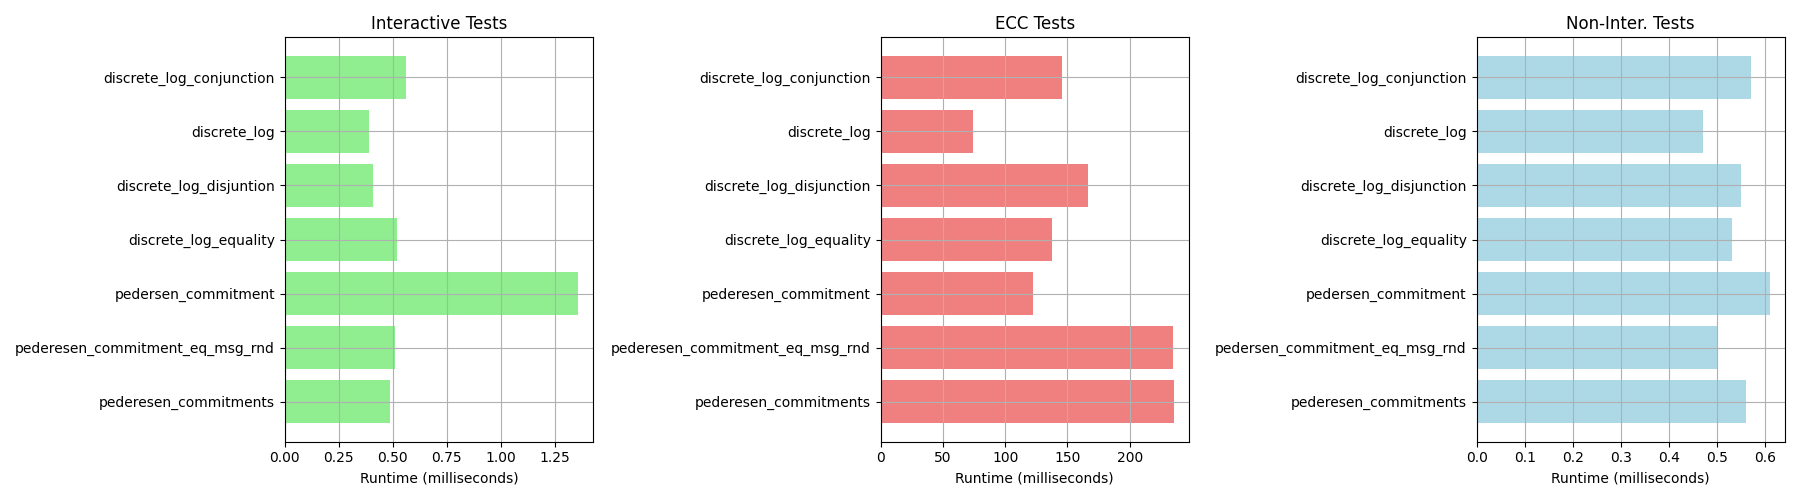
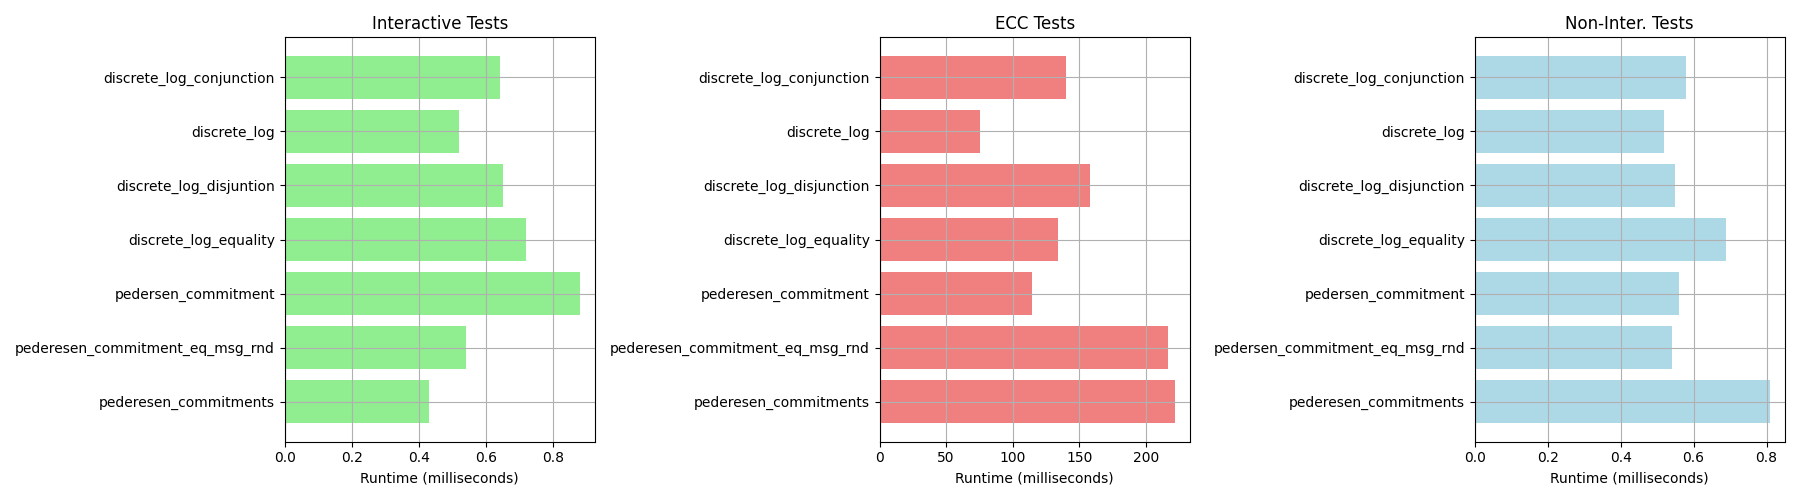
Adding in non-interactive classes the common point to choose hash function.

diff --git a/python/zkps/zkp_pederesen_commitments_messages.py b/python/zkps/zkp_pederesen_commitments_messages.py
@@ -2,6 +2,7 @@ from .elliptic_curve import get_curve
 from .interface_zkp import ZeroKnowledgeProtocol, ZeroKnowledgeProtocolNonInteractive
 import random
 import hashlib
+from .zkp_base import Base
 
 class PedersenCommitmentsEqualMessagesInteractive(ZeroKnowledgeProtocol):
     def __init__(self, p, g, h, x=None, y=None, z=None):
@@ -43,7 +44,7 @@ class PedersenCommitmentsEqualMessagesInteractive(ZeroKnowledgeProtocol):
 
         assert lhs1 == rhs1 and lhs2 == rhs2
 
-class PederesenCommitmentsEqualMessages(ZeroKnowledgeProtocolNonInteractive):
+class PederesenCommitmentsEqualMessages(ZeroKnowledgeProtocolNonInteractive, Base):
 
     def __init__(self, p, g, h, x = None, y = None, z = None):
         self._p = p
@@ -54,11 +55,6 @@ class PederesenCommitmentsEqualMessages(ZeroKnowledgeProtocolNonInteractive):
             self._y = y
             self._z = z
 
-    def hash_points(self, points):
-        hash_input = ''.join(str(point) for point in points).encode()
-        hash_output = hashlib.sha256(hash_input).hexdigest()
-        return int(hash_output, 16) % self._p
-
     def response(self, P, Q):
         r1 = random.randint(1, self._p - 1)
         r2 = random.randint(1, self._p - 1)
@@ -67,7 +63,7 @@ class PederesenCommitmentsEqualMessages(ZeroKnowledgeProtocolNonInteractive):
         t1 = (pow(self._g, r1, self._p) * pow(self._h, r2, self._p)) % ( self._p )
         t2 = (pow(self._g, r1, self._p) * pow(self._h, r3, self._p)) % ( self._p )
         
-        c = self.hash_points([P, Q, t1, t2])
+        c = self._hash([P, Q, t1, t2]) % self._p
         
         s1 = (r1 + c * self._x) % (self._p - 1 )
         s2 = (r2 + c * self._y) % (self._p - 1 )
@@ -79,7 +75,7 @@ class PederesenCommitmentsEqualMessages(ZeroKnowledgeProtocolNonInteractive):
         (t1, s1) = t1s1
         (t2, s2) = t2s2
         
-        c = self.hash_points([P, Q, t1, t2])
+        c = self._hash([P, Q, t1, t2]) % self._p
         
         lhs1 = (pow(self._g, s1, self._p) * pow(self._h, s2, self._p)) % self._p
         lhs2 = (pow(self._g, s1, self._p) * pow(self._h, s3, self._p)) % self._p

diff --git a/python/zkps/zkp_pederesen_commitments.py b/python/zkps/zkp_pederesen_commitments.py
@@ -2,7 +2,7 @@ import random
 import hashlib
 from .elliptic_curve import get_curve
 from .interface_zkp import ZeroKnowledgeProtocol, ZeroKnowledgeProtocolNonInteractive
-
+from .zkp_base import Base
 
 class PedersenCommitmentsEqualInteractive(ZeroKnowledgeProtocol):
     def __init__(self, p, x=None, y=None):
@@ -43,18 +43,12 @@ class PedersenCommitmentsEqualInteractive(ZeroKnowledgeProtocol):
         assert lhs1 == rhs1 
         assert lhs2 == rhs2
 
-class PedersenCommitmentsEqual(ZeroKnowledgeProtocolNonInteractive):
+class PedersenCommitmentsEqual(ZeroKnowledgeProtocolNonInteractive, Base):
 
     def __init__(self, p, x=None, y=None):
         self._x = x
         self._y = y
         self.p = p  # Large prime number for modulo operations
-    
-    def _hash_mod_p(self, values):
-        """Hashes a list of values and reduces the result modulo p."""
-        hash_input = ''.join([str(v) for v in values]).encode('utf-8')
-        hash_output = int(hashlib.sha256(hash_input).hexdigest(), 16)
-        return hash_output % self.p
     
     def _mod_exp(self, base, exponent):
         """Performs modular exponentiation."""
@@ -68,7 +62,7 @@ class PedersenCommitmentsEqual(ZeroKnowledgeProtocolNonInteractive):
         t1 = (self._mod_exp(g1, r1) * self._mod_exp(h1, r2)) % self.p 
         t2 = (self._mod_exp(g2, r1) * self._mod_exp(h2, r2)) % self.p
         
-        c = self._hash_mod_p([g1, h1, g2, h2, P, Q, t1, t2])
+        c = self._hash([g1, h1, g2, h2, P, Q, t1, t2]) % self.p
         
         s1 = (r1 + c * self._x) % ( self.p - 1)
         s2 = (r2 + c * self._y) % ( self.p - 1)
@@ -82,7 +76,7 @@ class PedersenCommitmentsEqual(ZeroKnowledgeProtocolNonInteractive):
         lhs1 = (self._mod_exp(g1, s1) * self._mod_exp(h1, s2)) % self.p
         lhs2 = (self._mod_exp(g2, s1) * self._mod_exp(h2, s2)) % self.p
         
-        c = self._hash_mod_p([g1, h1, g2, h2, P, Q, t1, t2])
+        c = self._hash([g1, h1, g2, h2, P, Q, t1, t2]) % self.p
         
         rhs1 = (t1 * self._mod_exp(P, c)) % self.p
         rhs2 = (t2 * self._mod_exp(Q, c)) % self.p

diff --git a/python/zkps/zkp_log_disjunction.py b/python/zkps/zkp_log_disjunction.py
@@ -2,7 +2,7 @@ import random
 import hashlib
 from .elliptic_curve import get_curve
 from .interface_zkp import ZeroKnowledgeProtocol, ZeroKnowledgeProtocolNonInteractive
-
+from .zkp_base import Base
 
 class DiscreteLogDisjunctionInteractive(ZeroKnowledgeProtocol):
     def __init__(self, g, h, P, Q, p, x=None):
@@ -89,7 +89,7 @@ class DiscreteLogDisjunctionInteractive(ZeroKnowledgeProtocol):
         assert lhs2 == rhs2 and lhs1 == rhs1
 
 
-class DiscreteLogDisjunction(ZeroKnowledgeProtocolNonInteractive):
+class DiscreteLogDisjunction(ZeroKnowledgeProtocolNonInteractive, Base):
 
     def __init__(self, g, h, P, Q, p, x=None):
         """
@@ -114,12 +114,8 @@ class DiscreteLogDisjunction(ZeroKnowledgeProtocolNonInteractive):
         t1 = pow(self._g, r1, self._p)
         t2 = (pow(self._h, s2, self._p) *
               pow(self._Q, (0 - c2), self._p)) % self._p
-
-        cha1 = str(self._g) + str(self._h) + str(self._P) + \
-            str(self._Q) + str(t1) + str(t2)
-        hash_ = hashlib.md5()
-        hash_.update(cha1.encode())
-        c = int(hash_.hexdigest(), 16) % self._p
+        
+        c = self._hash([self._g, self._h, self._P, self._Q, t1, t2]) % self._p
 
         c1 = (c - c2) % self._p
 
@@ -130,11 +126,8 @@ class DiscreteLogDisjunction(ZeroKnowledgeProtocolNonInteractive):
     def verify(self, g, h, P, Q, t1c1s1, t2c2s2):
         (t1, c1, s1) = t1c1s1
         (t2, c2, s2) = t2c2s2
-
-        cha1 = str(g) + str(h) + str(P) + str(Q) + str(t1) + str(t2)
-        hash_ = hashlib.md5()
-        hash_.update(cha1.encode())
-        c = int(hash_.hexdigest(), 16) % self._p
+        
+        c = self._hash([g, h, P, Q, t1, t2]) % self._p
 
         assert (c == (c1 + c2) % self._p)
 

diff --git a/python/zkps/zkp_log_conjunction.py b/python/zkps/zkp_log_conjunction.py
@@ -2,7 +2,7 @@ import random
 import hashlib
 from .elliptic_curve import get_curve
 from .interface_zkp import ZeroKnowledgeProtocol, ZeroKnowledgeProtocolNonInteractive
-
+from .zkp_base import Base
 
 class DiscreteLogConjunctionInteractive(ZeroKnowledgeProtocol):
 
@@ -71,7 +71,7 @@ class DiscreteLogConjunctionInteractive(ZeroKnowledgeProtocol):
         assert lhs1 == rhs1 and lhs2 == rhs2
 
 
-class DiscreteLogConjunction(ZeroKnowledgeProtocolNonInteractive):
+class DiscreteLogConjunction(ZeroKnowledgeProtocolNonInteractive, Base):
 
     def __init__(self, g, h, P, Q, p, x=None, y=None):
         """
@@ -96,12 +96,8 @@ class DiscreteLogConjunction(ZeroKnowledgeProtocolNonInteractive):
         t1 = pow(self._g, r1, self._p)
         t2 = pow(self._h, r2, self._p)
 
-        cha1 = str(self._g) + str(self._h) + str(self._P) + \
-            str(self._Q) + str(t1) + str(t2)
-        hash_ = hashlib.md5()
-        hash_.update(cha1.encode())
-        c = int(hash_.hexdigest(), 16) % self._p
-
+        c = self._hash([self._g, self._h, self._P, self._Q, t1, t2]) % self._p
+        
         s1 = (r1 + c * self._x) % (self._p - 1)
         s2 = (r2 + c * self._y) % (self._p - 1)
 
@@ -112,11 +108,8 @@ class DiscreteLogConjunction(ZeroKnowledgeProtocolNonInteractive):
         (t1, s1) = t1cs1
         (t2, s2) = t2cs2
 
-        cha1 = str(g) + str(h) + str(P) + str(Q) + str(t1) + str(t2)
-        hash_ = hashlib.md5()
-        hash_.update(cha1.encode())
-        c = int(hash_.hexdigest(), 16) % self._p
-
+        c = self._hash([g, h, P, Q, t1, t2]) % self._p
+        
         lhs1 = pow(g, s1, self._p)
         rhs1 = (t1 * pow(P, c, self._p)) % self._p
 

diff --git a/python/zkps/zkp_pederesen_commitment.py b/python/zkps/zkp_pederesen_commitment.py
@@ -3,6 +3,7 @@ from .interface_zkp import ZeroKnowledgeProtocol, ZeroKnowledgeProtocolNonIntera
 
 import random
 import hashlib
+from .zkp_base import Base
 
 
 class PedersenCommitmentInteractive(ZeroKnowledgeProtocol):
@@ -73,7 +74,7 @@ class PedersenCommitmentInteractive(ZeroKnowledgeProtocol):
         return lhs == rhs
 
 
-class PedersenCommitment(ZeroKnowledgeProtocolNonInteractive):
+class PedersenCommitment(ZeroKnowledgeProtocolNonInteractive, Base):
     """
     Non-interactive Pedersen Commitment in a cyclic group of prime order.
     """
@@ -104,11 +105,8 @@ class PedersenCommitment(ZeroKnowledgeProtocolNonInteractive):
 
         # Commitment
         t = (pow(self.g, r1, self.p) * pow(self.h, r2, self.p)) % self.p
-        cha1 = str(self.g) + str(self.h) + str(P) + str(t)
-        hash_ = hashlib.md5()
-        hash_.update(cha1.encode())
-        c = int(hash_.hexdigest(), 16) % self.p
-
+        c = self._hash([self.g, self.h, P, t]) % self.p
+        
         # Responses
         s1 = (r1 + c * self.x) % (self.p - 1)
         s2 = (r2 + c * self.y) % (self.p - 1)
@@ -126,11 +124,7 @@ class PedersenCommitment(ZeroKnowledgeProtocolNonInteractive):
         """
         # Calculate left hand side (LHS) of the verification equation
         lhs = (pow(g, s1, self.p) * pow(h, s2, self.p)) % self.p
-        cha1 = str(g) + str(h) + str(P) + str(t)
-        hash_ = hashlib.md5()
-        hash_.update(cha1.encode())
-        c = int(hash_.hexdigest(), 16) % self.p
-
+        c = self._hash([g, h, P, t]) % self.p
         # Calculate right hand side (RHS) of the verification equation
         rhs = (t * pow(P, c, self.p)) % self.p
 

diff --git a/python/zkps/zkp_log_discrete.py b/python/zkps/zkp_log_discrete.py
@@ -2,7 +2,7 @@ import random
 import hashlib
 from .elliptic_curve import get_curve
 from .interface_zkp import ZeroKnowledgeProtocol, ZeroKnowledgeProtocolNonInteractive
-
+from .zkp_base import Base
 
 class DiscreteLogInteractive(ZeroKnowledgeProtocol):
 
@@ -50,7 +50,7 @@ class DiscreteLogInteractive(ZeroKnowledgeProtocol):
             pow(self._y, self._challenge) * commitment) % self._p
 
 
-class DiscreteLog(ZeroKnowledgeProtocolNonInteractive):
+class DiscreteLog(ZeroKnowledgeProtocolNonInteractive, Base):
     """
     Implementation based on https://asecuritysite.com/zero/nizkp2
     """
@@ -75,11 +75,7 @@ class DiscreteLog(ZeroKnowledgeProtocolNonInteractive):
         """
         self._v = random.randint(0, self._p - 1)
         t = pow(self._g, self._v, self._p)
-        chal = str(self._g) + str(self._y) + str(t)
-        h = hashlib.md5()
-        h.update(chal.encode())
-
-        self._c = int(h.hexdigest(), 16)
+        self._c = self._hash([self._g, self._y, t])
         return t, (self._v - self._c * self._x) % (self._p - 1)
 
     def verify(self, s, t):
@@ -93,11 +89,8 @@ class DiscreteLog(ZeroKnowledgeProtocolNonInteractive):
             None
         Raises:
             AssertionError: If the signature is invalid.
-        """
-        chal = str(self._g) + str(self._y) + str(t)
-        h = hashlib.md5()
-        h.update(chal.encode())
-        c = int(h.hexdigest(), 16)
+        """        
+        c = self._hash([self._g, self._y, t])
         check = (pow(self._g, s, self._p) * pow(self._y, c, self._p)) % self._p
         assert t == check
 
